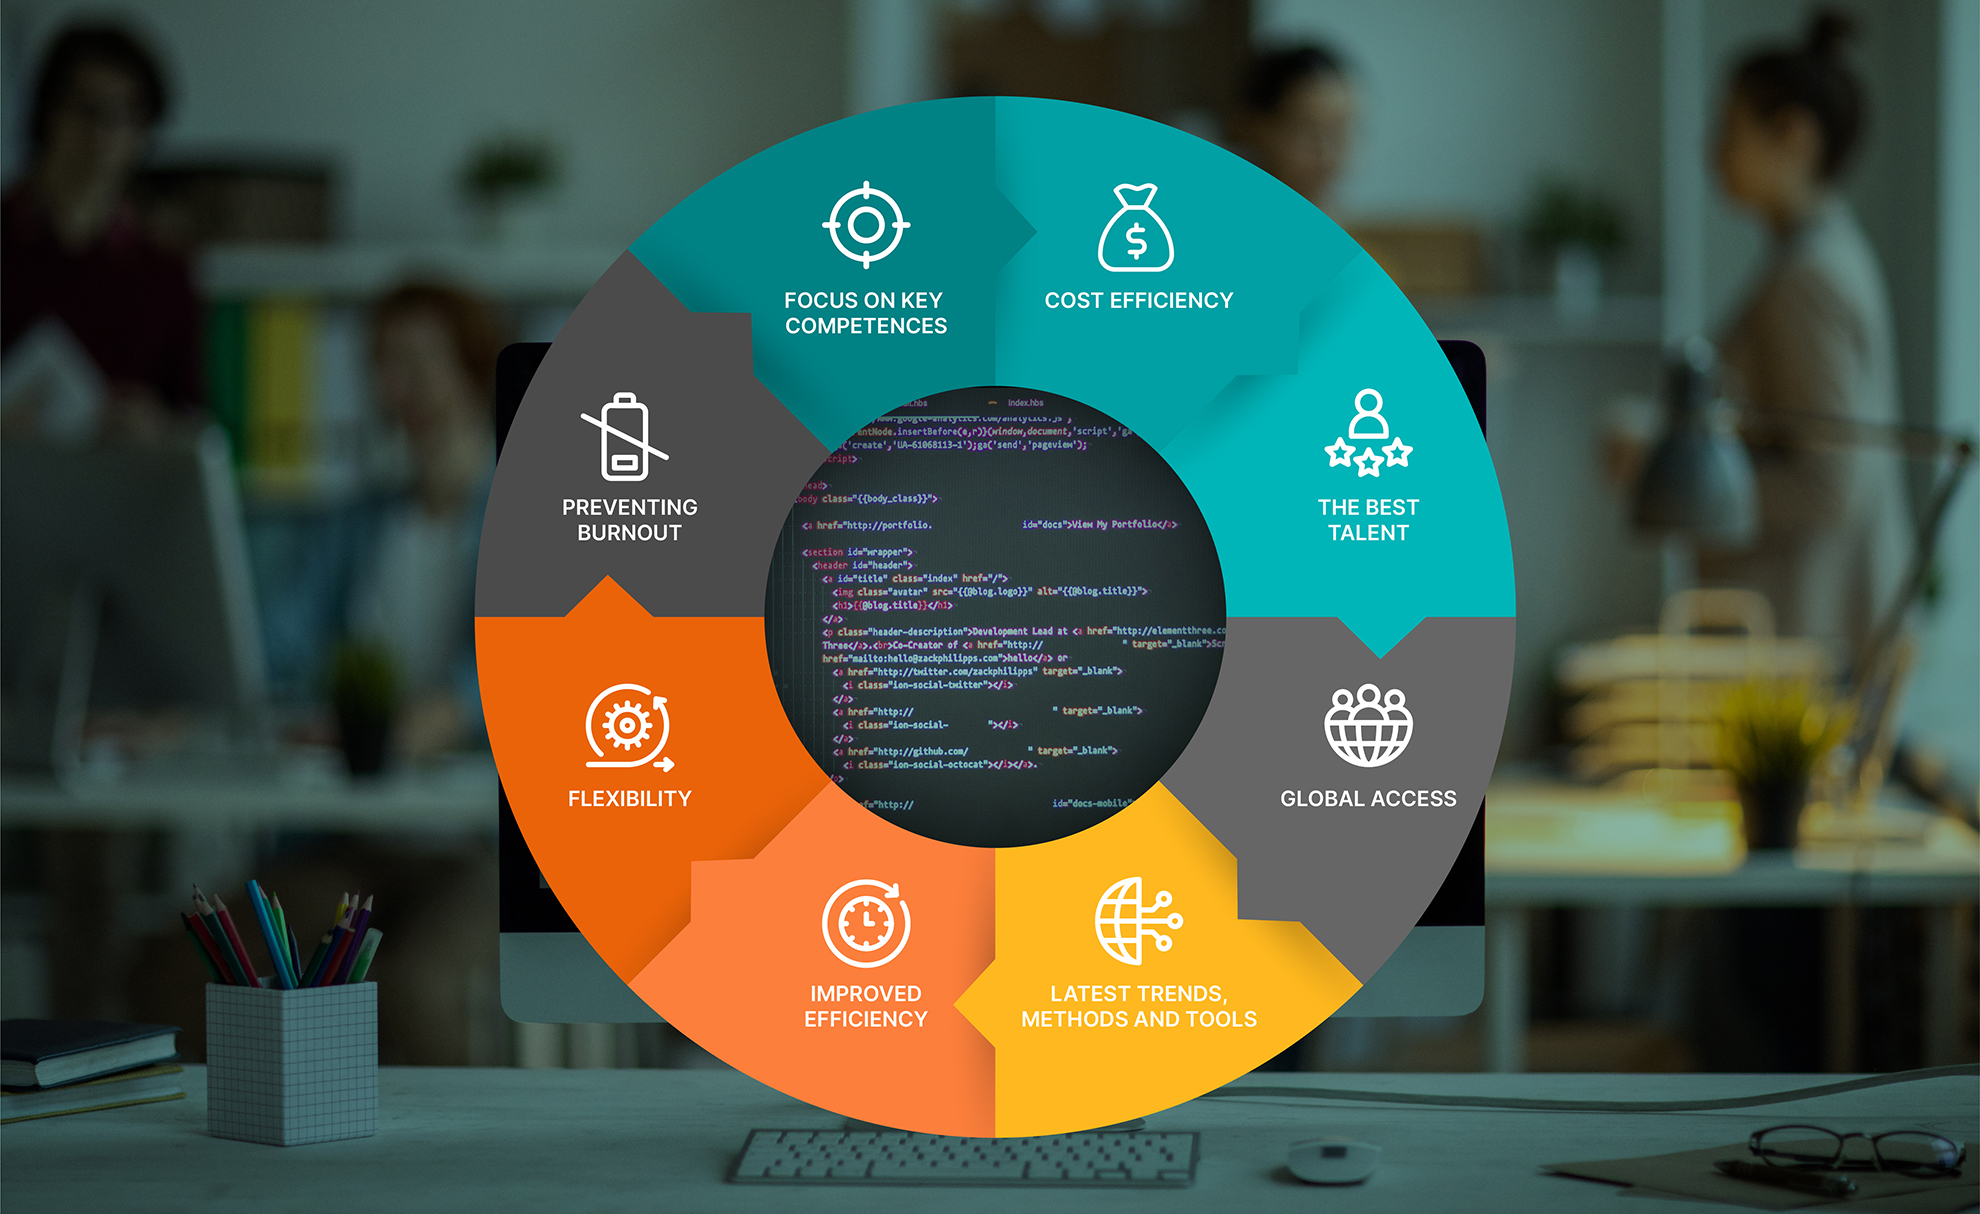
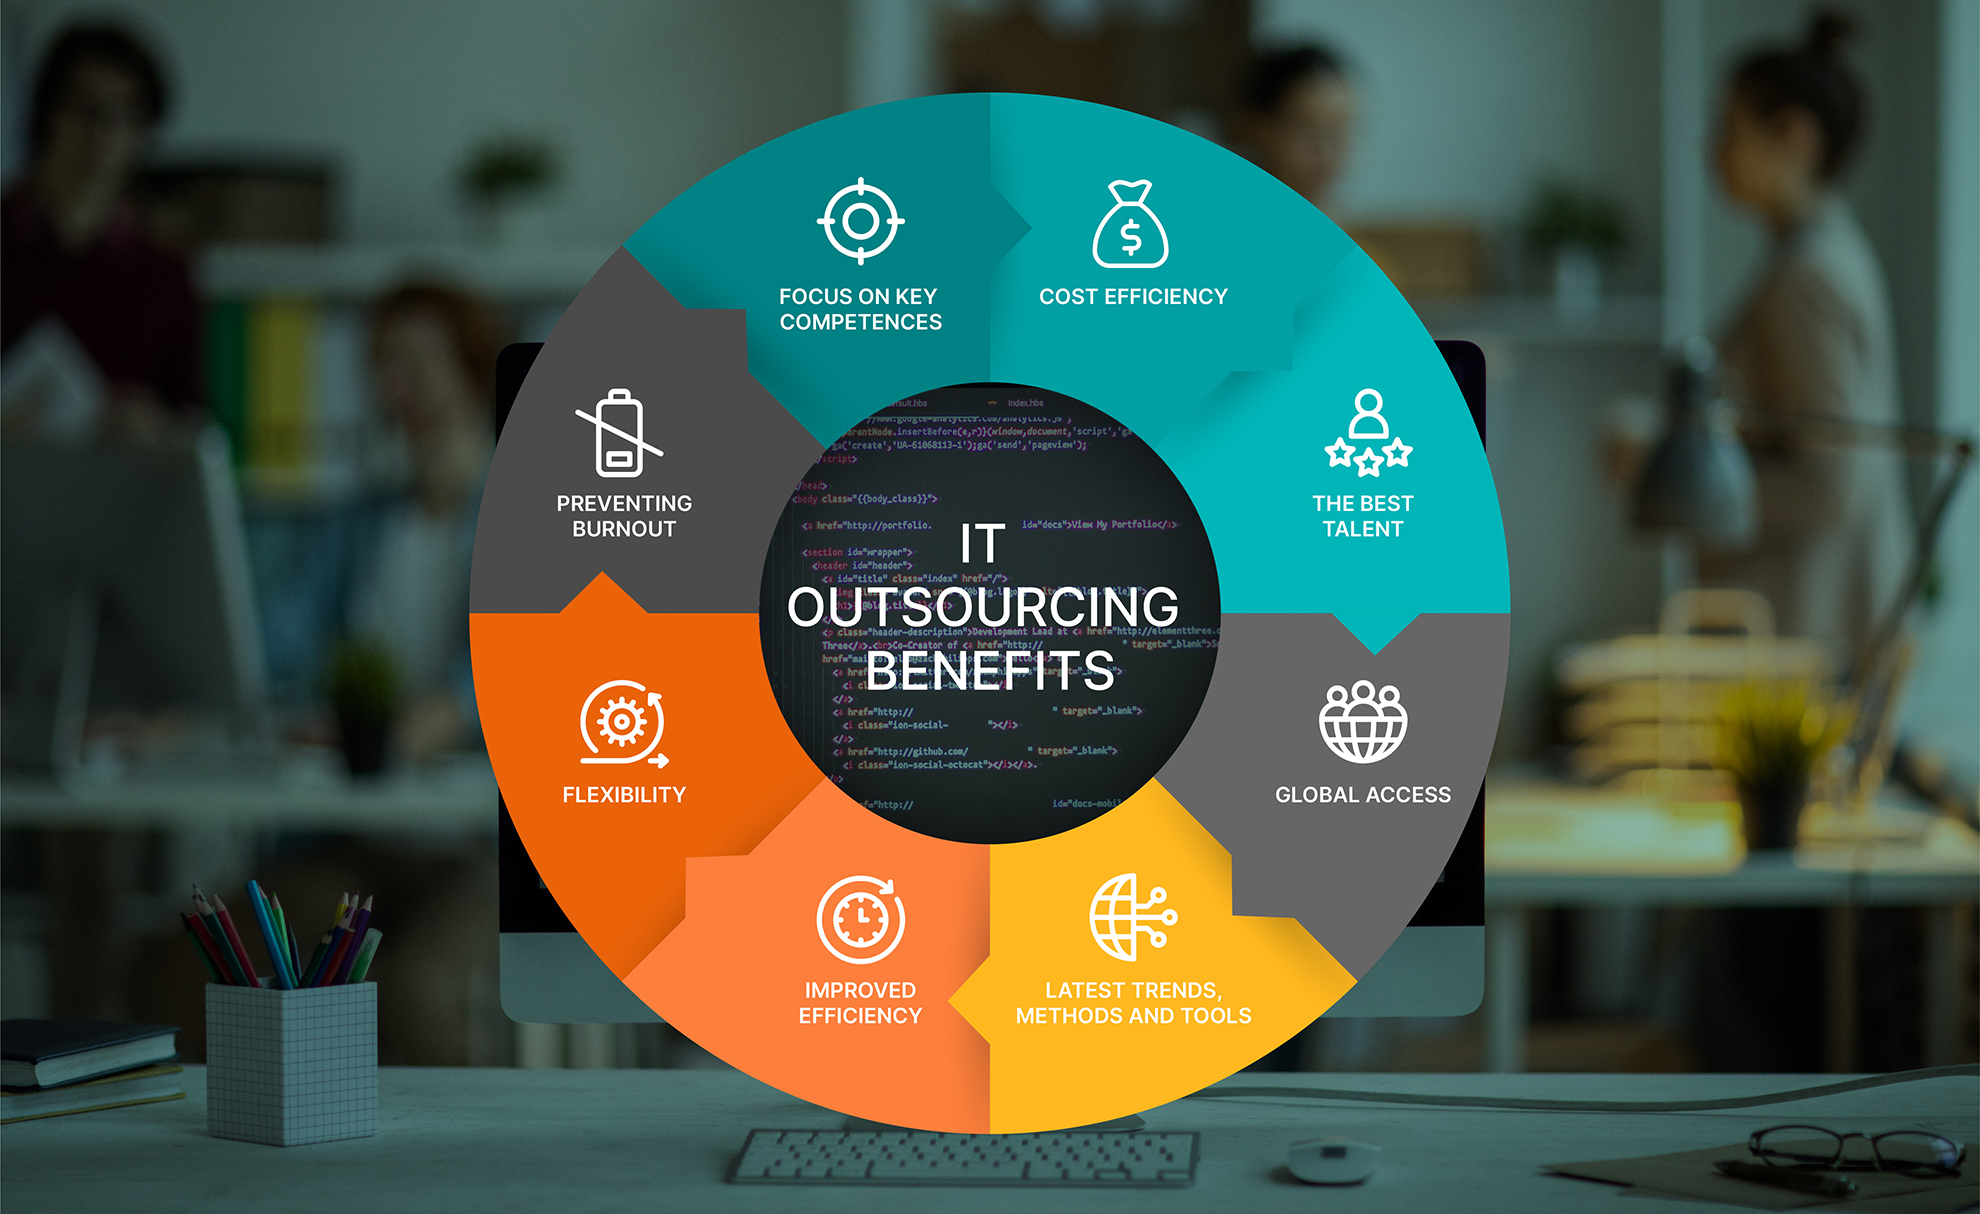
animations fixed

diff --git a/layouts/_default/what-we-do.html b/layouts/_default/what-we-do.html
@@ -6,12 +6,36 @@
     <div class="row align-items-center justify-content-center">
       <div class="col-lg-6 col-md-10 mb-5 mb-lg-0">
         <div class="pe-0 pe-lg-5 text-center text-lg-start">
-          <h1 class="section-title h3">{{ .title | markdownify }}</h1>
-          <p class="mb-4">{{ .content | markdownify }}</p>
-          {{ partial "button" .button }}
+          <h1 class="section-title h3"
+            data-aos="fade-right"
+            data-aos-offset="0"
+            data-aos-duration="600"
+            data-aos-easing="ease-in-out-sine">
+            {{ .title | markdownify }}
+          </h1>
+          <p class="mb-4"
+            data-aos="fade-right"
+            data-aos-offset="0"
+            data-aos-duration="600"
+            data-aos-delay="400"
+            data-aos-easing="ease-in-out-sine">
+            {{ .content | markdownify }}
+          </p>
+          <div data-aos="fade-right"
+            data-aos-offset="0"
+            data-aos-duration="600"
+            data-aos-delay="800"
+            data-aos-easing="ease-in-out-sine">
+            {{ partial "button" .button }}
+          </div>
         </div>
       </div>
-      <div class="col-lg-6 text-center">
+      <div class="col-lg-6 text-center"
+        data-aos="fade-left"
+        data-aos-offset="0"
+        data-aos-duration="600"
+        data-aos-delay="1000"
+        data-aos-easing="ease-in-sine">
         {{ partial "image" (dict "Src" .image "Alt" .alt "Size" "550x") }}
       </div>
     </div>
@@ -38,9 +62,9 @@
         {{ partial "button" .button }}
       </div>
       <div class="col-lg-6 gx-5 {{if not (modBool $i 2)}}order-lg-1{{end}} order-0 pe-lg-0"
-        data-aos="{{if not (modBool $i 2)}}fade-left{{else}}fade-right{{end}}"
+        data-aos="fade"
         data-aos-offset="150"
-        data-aos-duration="600"
+        data-aos-duration="300"
         data-aos-easing="ease-in-out-sine">
         <div class="what-we-do-img">
           {{ partial "video" .anim }}

diff --git a/layouts/_default/clients.html b/layouts/_default/clients.html
@@ -111,7 +111,7 @@
               <div class="col-lg-8">
                 <div class="card bg-white rounded-2 border-0">
                   <div class="card-body p-4">
-                    <p class="mb-3">{{.content}}</p>
+                    <p class="mb-3">{{.content | markdownify}}</p>
                     <h5 class="h6">{{.name | markdownify}}</h5>
                   </div>
                 </div>

diff --git a/layouts/index.html b/layouts/index.html
@@ -260,9 +260,8 @@
     <div class="row justify-content-center"
       data-aos="fade-up"
       data-aos-offset="50"
-      data-aos-duration="600"
-      data-aos-easing="ease-in-out-sine"
-      data-aos-delay="400">
+      data-aos-duration="400"
+      data-aos-easing="ease-in-out-sine">
       <div class="col-xl-8 text-center">
         {{ partial "button" .button }}
       </div>

diff --git a/assets/scss/custom.scss b/assets/scss/custom.scss
@@ -175,6 +175,11 @@ video {
   }
 }
 
+.what-we-do-img {
+  max-width: 80%;
+  margin: 0 auto;
+}
+
 .contact-img {
   border-bottom: 5px solid;
 }

diff --git a/content/english/articles/8-most-important-reasons-why-companies-outsource-IT-services.md b/content/english/articles/8-most-important-reasons-why-companies-outsource-IT-services.md
@@ -23,7 +23,7 @@ At ALAS doo, we understand the importance of technology in today's fast&#8209;pa
 
 One of the main goals of outsourcing IT services is obviously to boost efficiency and reduce costs, but there are other underlying benefits to take into account.
 
-{{< image option="webp q100" position="center" class="img-fluid rounded-2" src="images/articles/why-outsource-inphographic.jpg" alt="colorful circle diagram of outsourcing benefits: focus on key competences; cost efficiency; the best talent; global access; latest trends, methods and tools; improved efficiency; flexibility; preventing burnout" >}}
+{{< image option="webp q100" position="center" class="img-fluid rounded-2" src="images/articles/why-outsource-inphographic.jpg" alt="colorful circle diagram of it outsourcing benefits: focus on key competences; cost efficiency; the best talent; global access; latest trends, methods and tools; improved efficiency; flexibility; preventing burnout" >}}
 
 ## 1. Enabling focus on key competences
 
